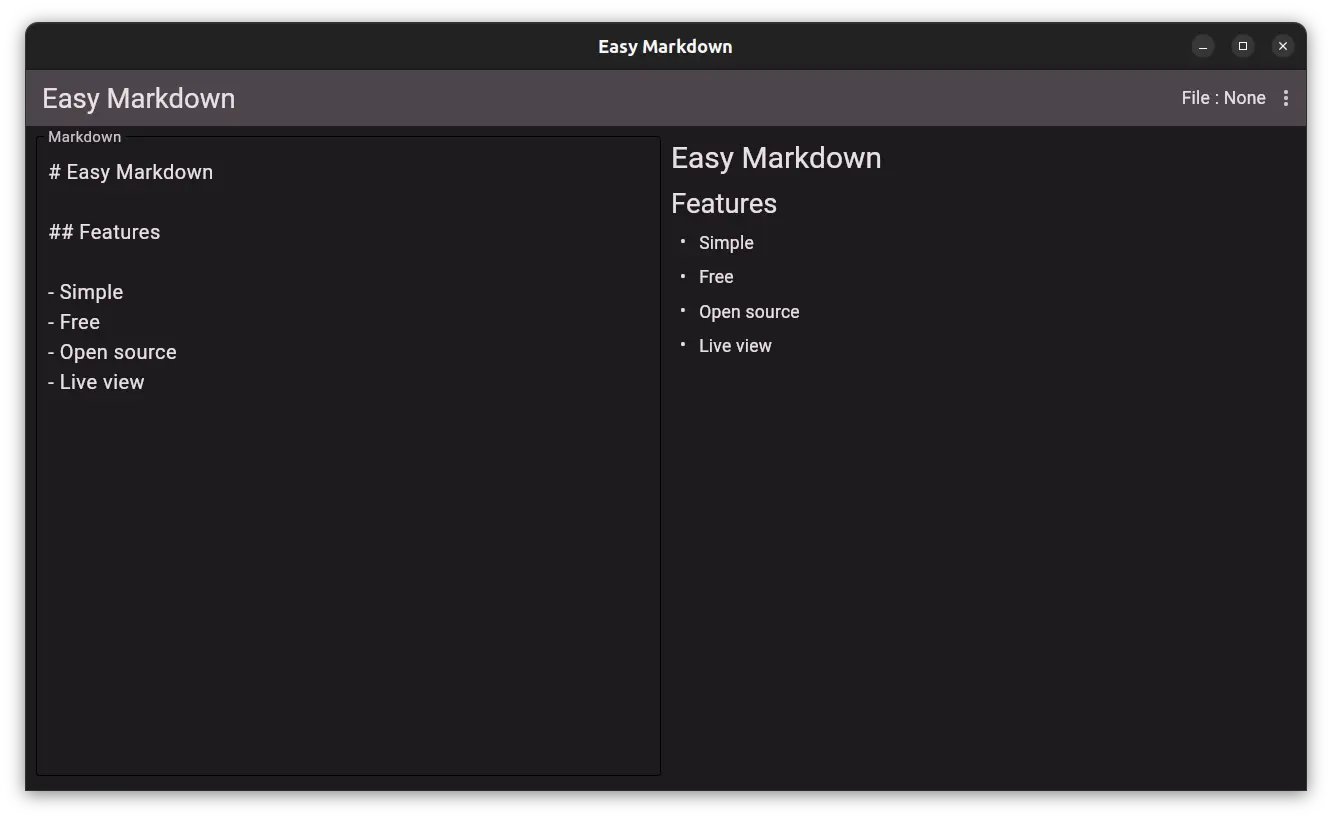
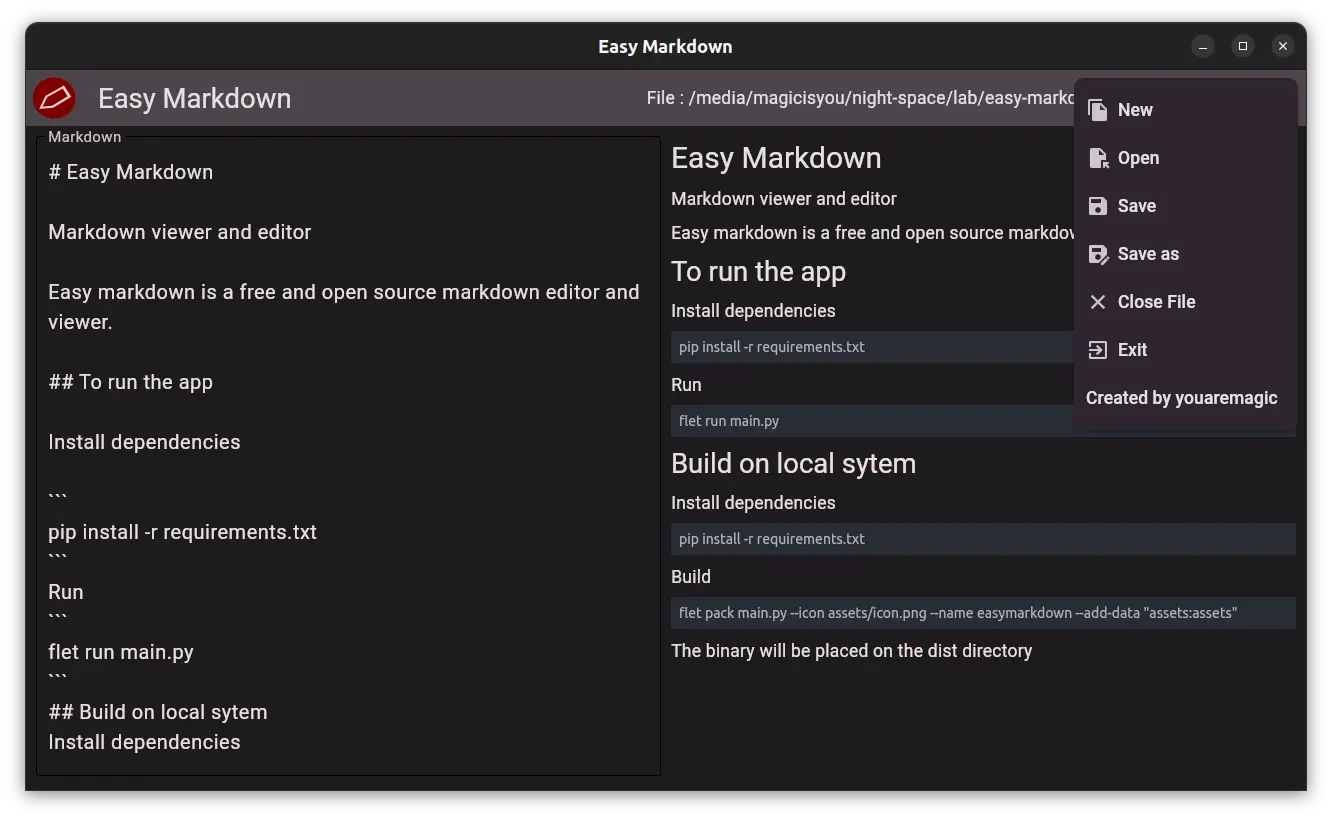
added confirmation dialogues, modified requirements.txt

diff --git a/utils/app.py b/utils/app.py
@@ -4,15 +4,94 @@ from utils import variables as var
 from components import snackbar
 
 FILE_PATH=None
+FILE_CHECKPOINT=''
 
 file_indicator=ft.Text(f"File : {FILE_PATH}")
+
+def is_content_modified():
+    if FILE_CHECKPOINT != markdown_text_field.value:
+        return True
+    else:
+        return False
+
+def exit_app(e):
+    e.page.window_destroy()
+
+def cancel_dialog():
+    exit_confirm_dialog.open = False
+    open_confirm_dialog.open = False
+    close_confirm_dialog.open = False
+    var.PAGE.update()
+
+def save_file_and_exit(e):
+    save_to_file()
+    cancel_dialog()
+
+dialog_title=ft.Text("Please confirm")
+dialog_content=ft.Text("You have unsaved changes!")
+
+exit_confirm_dialog = ft.AlertDialog(
+    modal=True,
+    title=dialog_title,
+    content=dialog_content,
+    actions=[
+        ft.OutlinedButton("Save", on_click=lambda _:save_to_file()),
+        ft.OutlinedButton("Exit without saving", on_click=exit_app),
+        ft.OutlinedButton("Cancel", on_click=lambda _:cancel_dialog()),
+    ],
+    actions_alignment=ft.MainAxisAlignment.SPACE_AROUND,
+)
+
+open_confirm_dialog = ft.AlertDialog(
+    modal=True,
+    title=dialog_title,
+    content=dialog_content,
+    actions=[
+        ft.OutlinedButton("Save", on_click=lambda _:save_to_file()),
+        ft.OutlinedButton("Ignore changes", on_click=lambda _:open_file(force=True)),
+        ft.OutlinedButton("Cancel", on_click=lambda _:cancel_dialog()),
+    ],
+    actions_alignment=ft.MainAxisAlignment.SPACE_AROUND,
+)
+
+close_confirm_dialog = ft.AlertDialog(
+    modal=True,
+    title=dialog_title,
+    content=dialog_content,
+    actions=[
+        ft.OutlinedButton("Save", on_click=save_file_and_exit),
+        ft.OutlinedButton("Ignore Changes", on_click=lambda _:close_file(force=True)),
+        ft.OutlinedButton("Cancel", on_click=lambda _:cancel_dialog()),
+    ],
+    actions_alignment=ft.MainAxisAlignment.SPACE_AROUND,
+)
+
+def show_confirm_dialog(action):
+    if action=='exit':
+        var.PAGE.dialog = exit_confirm_dialog
+        exit_confirm_dialog.open = True
+    elif action=='close':
+        var.PAGE.dialog = close_confirm_dialog
+        close_confirm_dialog.open = True
+    elif action=='open':
+        var.PAGE.dialog = open_confirm_dialog
+        open_confirm_dialog.open = True
+    var.PAGE.update()
+
+def window_event(e):
+    page=e.page
+    if e.data == 'close':
+        if is_content_modified() == True:
+            show_confirm_dialog('exit')
+        else:
+            exit_app(e)
 
 def update_file_indicator():
     file_indicator.value=f"File : {FILE_PATH}"
     file_indicator.update()
 
 def pick_files_result(e: ft.FilePickerResultEvent):
-    global FILE_PATH
+    global FILE_PATH, FILE_CHECKPOINT
     if e.files:
         for file in e.files:
             FILE_PATH=file.path
@@ -24,6 +103,7 @@ def pick_files_result(e: ft.FilePickerResultEvent):
                 markdown_output.update()
                 file.close()
                 update_file_indicator()
+                FILE_CHECKPOINT=file_content
 
 def save_file_result(e: ft.FilePickerResultEvent):
     global FILE_PATH
@@ -33,22 +113,43 @@ def save_file_result(e: ft.FilePickerResultEvent):
         update_file_indicator()
 
 def save_to_file():
+    cancel_dialog()
+    global FILE_CHECKPOINT
     if FILE_PATH:
         with open(FILE_PATH, "w") as file:
             file.write(markdown_text_field.value)
             file.close()
             snackbar.show_snackbar(f"Saved as {FILE_PATH}")
+            FILE_CHECKPOINT=markdown_text_field.value
     else:
         file_saver.save_file(file_type=ft.FilePickerFileType.CUSTOM, allowed_extensions=['md'])
 
-def close_file():
-    global FILE_PATH
-    FILE_PATH=None
-    markdown_text_field.value=''
-    markdown_output.value=''
-    markdown_text_field.update()
-    markdown_output.update()
-    update_file_indicator()
+def close_file(force=False): # force is used to close without showing confirm dialog
+    if is_content_modified() == True and force==False:
+        show_confirm_dialog('close')
+    else:
+        cancel_dialog()
+        global FILE_CHECKPOINT
+        markdown_text_field.value=''
+        markdown_output.value=''
+        markdown_text_field.update()
+        markdown_output.update()
+        update_file_indicator()
+        FILE_CHECKPOINT=''
+
+def open_file(force=False): # force is used to open without showing confirm dialog
+    if is_content_modified() == True and force==False:
+        show_confirm_dialog('open')
+    else:
+        cancel_dialog()
+        file_picker.pick_files(
+            allow_multiple=False,
+            allowed_extensions=['md'],
+            file_type=ft.FilePickerFileType.CUSTOM
+        )
+
+def new_document():
+    close_file()
 
 file_picker=ft.FilePicker(
     on_result=pick_files_result,
@@ -80,6 +181,8 @@ markdown_output=ft.Markdown(
 )
 
 def render_markdown():
+    global FILE_STATE
+    FILE_STATE=1
     markdown_output.value=markdown_text_field.value
     markdown_output.update()
 
@@ -100,13 +203,14 @@ def content():
             ft.PopupMenuButton(
                 items=[
                     ft.PopupMenuItem(
+                        icon=ft.icons.FILE_COPY,
+                        text='New',
+                        on_click=lambda _:new_document(),
+                    ),
+                    ft.PopupMenuItem(
                         icon=ft.icons.FILE_OPEN,
                         text='Open',
-                        on_click=lambda _: file_picker.pick_files(
-                            allow_multiple=False,
-                            allowed_extensions=['md'],
-                            file_type=ft.FilePickerFileType.CUSTOM
-                        )
+                        on_click=lambda _:open_file(),
                     ),
                     ft.PopupMenuItem(
                         icon=ft.icons.SAVE,

diff --git a/main.py b/main.py
@@ -5,6 +5,8 @@ from utils import app, variables
 def main(page: ft.Page):
     page.title = "Easy Markdown"
     page.theme = ft.theme.Theme(color_scheme_seed=ft.colors.PURPLE_300)
+    page.window_prevent_close = True
+    page.on_window_event=app.window_event
     variables.update_variables(page)
     page.add(app.content())
 
